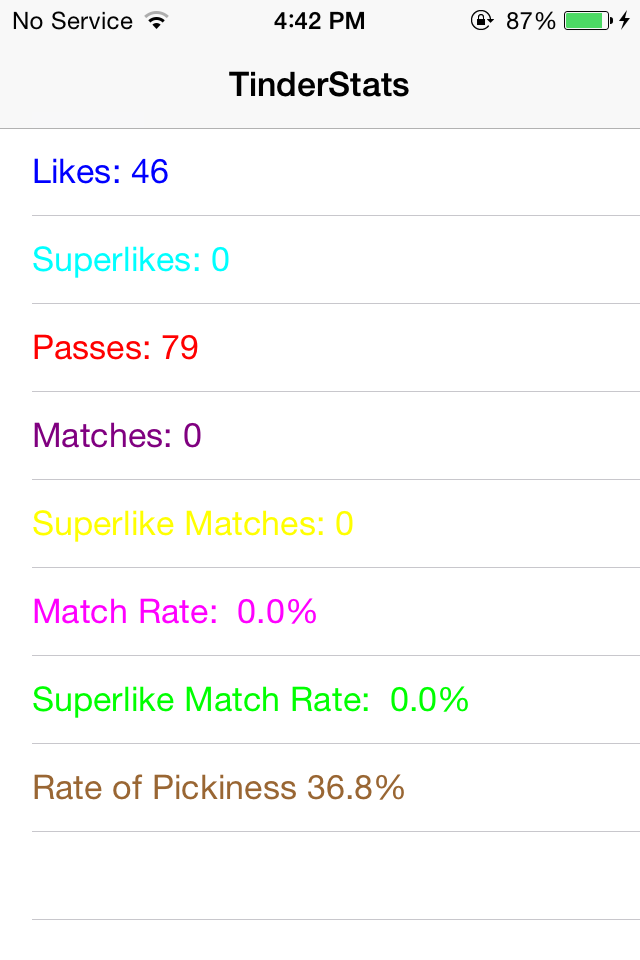
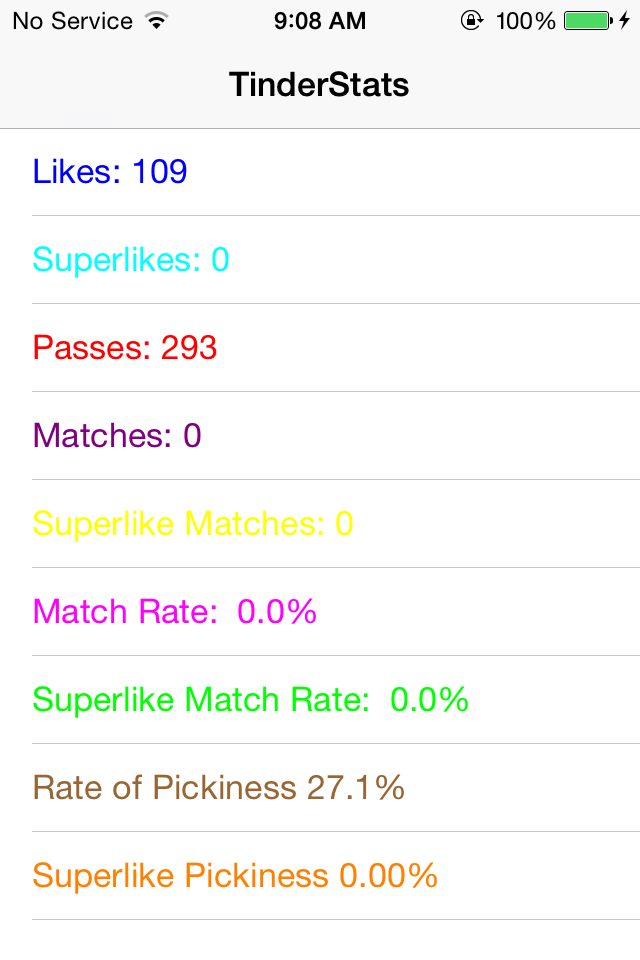
Table Element stats now update on application foregrounding
Fixes #1

diff --git a/F41RootViewController.m b/F41RootViewController.m
@@ -6,28 +6,29 @@
     DBManager * dbmanager;
 }
 
+
+        
 - (BOOL)shouldAutorotateToInterfaceOrientation:(UIInterfaceOrientation)toInterfaceOrientation
 {
     return NO;
 }
 
-
 - (void)loadView {
 	[super loadView];
 
-
 	self.title = @"TinderStats";
     self.tableView.scrollEnabled = NO;
-
-    tableElements = [NSArray arrayWithObjects:@"Likes:", @"Superlikes:", @"Passes:", @"Matches:", @"Superlike Matches:", @"Match Rate:", @"Superlike Match Rate:", @"Rate of Pickiness", @"Superlike Pickiness", nil];
-    tableColors = [NSArray arrayWithObjects:[UIColor blueColor], [UIColor cyanColor], [UIColor redColor], [UIColor purpleColor ], [UIColor yellowColor ],[UIColor magentaColor ],  [UIColor greenColor ], [UIColor brownColor ], [UIColor brownColor ], nil];
     
+    tableElements = [NSArray arrayWithObjects:@"Likes:", @"Superlikes:", @"Passes:", @"Matches:", @"Superlike Matches:", @"Match Rate:", @"Superlike Match Rate:", @"Rate of Pickiness", @"Superlike Pickiness", nil];
+
+    tableColors = [NSArray arrayWithObjects:[UIColor blueColor], [UIColor cyanColor], [UIColor redColor], [UIColor purpleColor ], [UIColor yellowColor ],[UIColor magentaColor ],  [UIColor greenColor ], [UIColor brownColor ], [UIColor orangeColor ], nil];
+
     dbmanager = [[DBManager alloc] init];
-    if(![dbmanager checkDBExists])
-    {
+    if(![dbmanager checkDBExists]){
         [dbmanager createDB];
         [dbmanager initDB];
     }
+
 
 }
 
@@ -113,6 +114,22 @@
     }
     cell.textLabel.textColor = [tableColors objectAtIndex:indexPath.row];
     return cell;
+}
+
+- (void) reloadTable {
+    NSLog(@"f41c0r: reloading table");
+
+    tableElements = [NSArray arrayWithObjects:@"Likes:", @"Superlikes:", @"Passes:", @"Matches:", @"Superlike Matches:", @"Match Rate:", @"Superlike Match Rate:", @"Rate of Pickiness", @"Superlike Pickiness", nil];
+
+    tableColors = [NSArray arrayWithObjects:[UIColor blueColor], [UIColor cyanColor], [UIColor redColor], [UIColor purpleColor ], [UIColor yellowColor ],[UIColor magentaColor ],  [UIColor greenColor ], [UIColor brownColor ], [UIColor orangeColor ], nil];
+
+    dbmanager = [[DBManager alloc] init];
+    if(![dbmanager checkDBExists]){
+        [dbmanager createDB];
+        [dbmanager initDB];
+    }
+
+    [self.tableView reloadData];
 }
 
 @end

diff --git a/F41AppDelegate.m b/F41AppDelegate.m
@@ -1,18 +1,24 @@
 #import "F41AppDelegate.h"
-#import "F41RootViewController.h"
 
 @implementation F41AppDelegate
 
 - (void)applicationDidFinishLaunching:(UIApplication *)application {
 	_window = [[UIWindow alloc] initWithFrame:[UIScreen mainScreen].bounds];
-	_rootViewController = [[UINavigationController alloc] initWithRootViewController:[[F41RootViewController alloc] init]];
+    _f41RootViewController = [[F41RootViewController alloc] init];
+	_rootViewController = [[UINavigationController alloc] initWithRootViewController: _f41RootViewController ];
 	_window.rootViewController = _rootViewController;
 	[_window makeKeyAndVisible];
+}
+
+- (void) applicationDidBecomeActive:(UIApplication *) application {
+    NSLog(@"f41c0r: Application entered foreground F41AppDelegate");
+    [_f41RootViewController reloadTable];
 }
 
 - (void)dealloc {
 	[_window release];
 	[_rootViewController release];
+    [_f41RootViewController release];
 	[super dealloc];
 }
 

diff --git a/F41AppDelegate.h b/F41AppDelegate.h
@@ -1,6 +1,9 @@
+#import "F41RootViewController.h"
+
 @interface F41AppDelegate : UIResponder <UIApplicationDelegate>
 
 @property (nonatomic, retain) UIWindow *window;
 @property (nonatomic, retain) UINavigationController *rootViewController;
+@property (nonatomic, retain) F41RootViewController *f41RootViewController;
 
 @end

diff --git a/F41RootViewController.h b/F41RootViewController.h
@@ -2,4 +2,7 @@
 
 @interface F41RootViewController : UITableViewController
 
+
+-(void) reloadTable;
+
 @end
